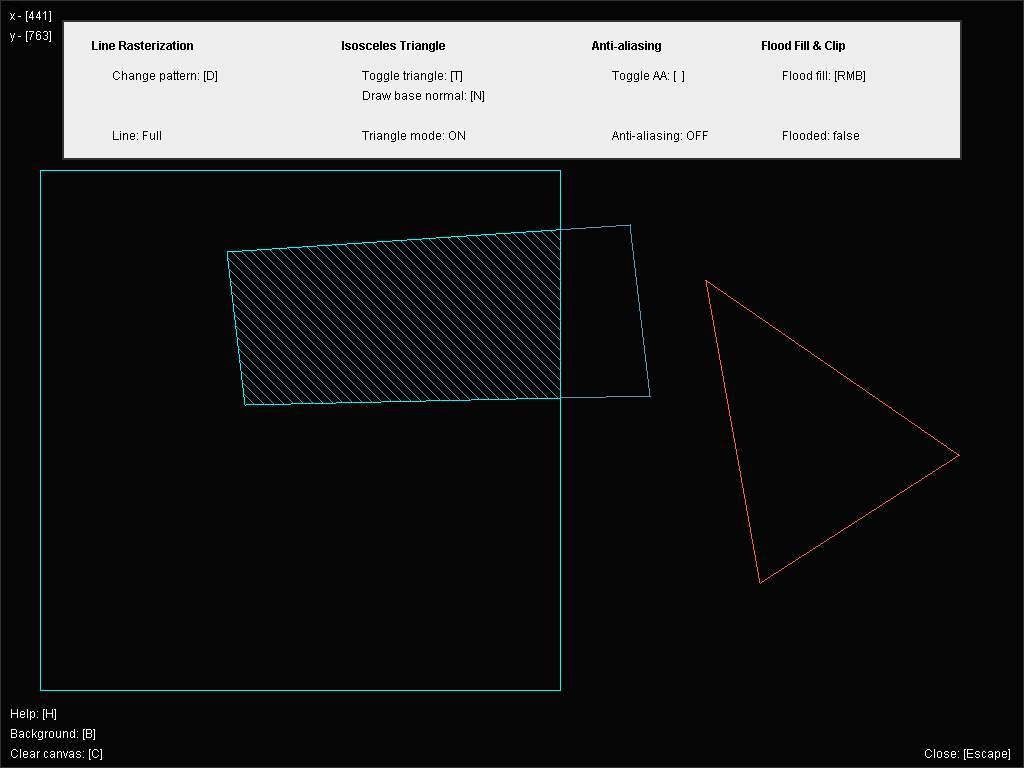
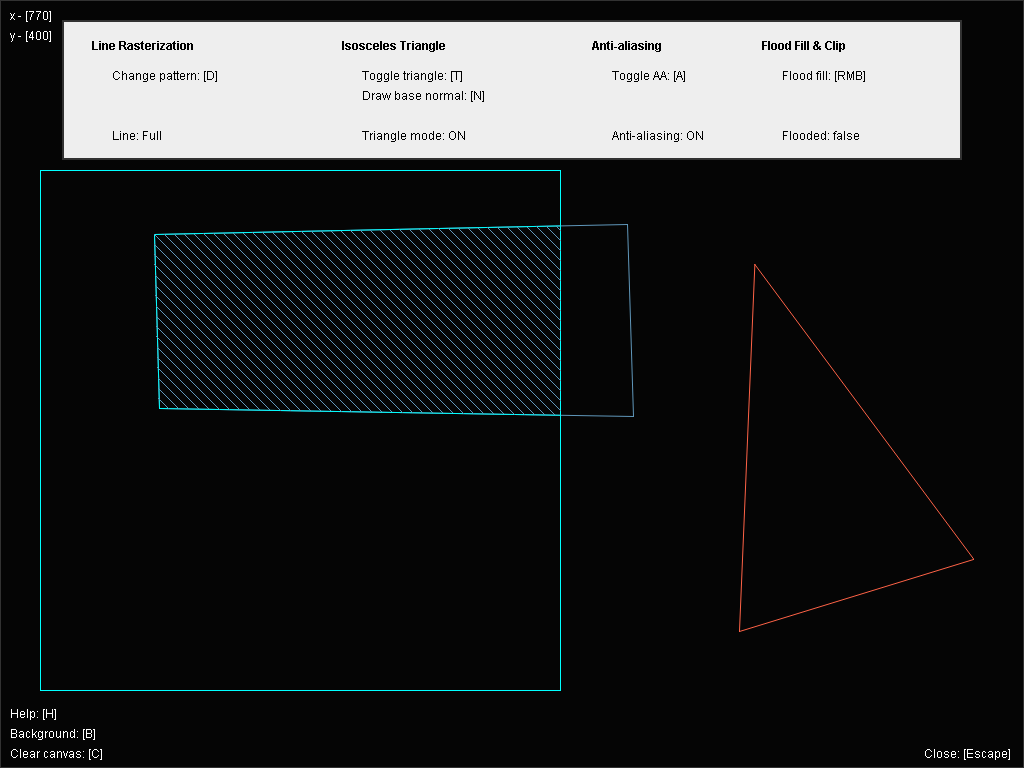
add anti-aliased line rasterization

diff --git a/src/rasterization/LineRasterizer.java b/src/rasterization/LineRasterizer.java
@@ -9,16 +9,35 @@ public class LineRasterizer extends Rasterizer
         this.image = image;
     }
 
-    private void pixel(int x, int y, int color)
+    private void pixel(int x, int y, int color, double alpha)
     {
         if (x >= 0 && x < image.getWidth() && y >= 0 && y < image.getHeight())
         {
-            image.setRGB(x, y, color);
+            int backgroundColor = image.getRGB(x, y);
+
+            image.setRGB(x, y, blendColor(backgroundColor, color, alpha));
         }
     }
 
+    private int blendColor(int background, int foreground, double alpha)
+    {
+        int r0 = (background >> 16) & 0xFF;
+        int g0 = (background >> 8) & 0xFF;
+        int b0 = background & 0xFF;
+        
+        int r1 = (foreground >> 16) & 0xFF;
+        int g1 = (foreground >> 8) & 0xFF;
+        int b1 = foreground & 0xFF;
+        
+        int r = (int) (r0 * (1 - alpha) + r1 * alpha);
+        int g = (int) (g0 * (1 - alpha) + g1 * alpha);
+        int b = (int) (b0 * (1 - alpha) + b1 * alpha);
+        
+        return (r << 16) | (g << 8) | b;
+    }
+
     @Override
-    public void rasterize(double x0, double y0, double x1, double y1)
+    public void rasterize(double x0, double y0, double x1, double y1, boolean antiAliased)
     {
         double run = x1 - x0;
         double rise = y1 - y0;
@@ -29,7 +48,7 @@ public class LineRasterizer extends Rasterizer
         if (x0 == x1 && y0 == y1)
         {
             // ... rasterize the pixel right away
-            pixel((int) x0, (int) y0, color);
+            pixel((int) x0, (int) y0, color, 1);
 
             return;
         }
@@ -51,29 +70,71 @@ public class LineRasterizer extends Rasterizer
         switch (pattern)
         {
             case FULL:
-                for (double x = steep ? y0 : x0; steep ? x <= y1 : x <= x1; x++)
+                for (double x = steep ? y0 : x0; steep ? (x <= y1) : (x <= x1); x++)
                 {
                     double y = k * x + q;
 
-                    pixel(steep ? (int) y : (int) x, steep ? (int) x : (int) y, color);
+                    if (antiAliased)
+                    {
+                        double fraction = y - (int) y;
+            
+                        pixel(steep ? (int) y : (int) x, steep ? (int) x : (int) y, color, 1 - fraction);
+    
+                        if (fraction > 0)
+                        {
+                            pixel(steep ? ((int) y + 1) : (int) x, steep ? (int) x : ((int) y + 1), color, fraction);
+                        }
+                    }
+                    else
+                    {
+                        pixel(steep ? (int) y : (int) x, steep ? (int) x : (int) y, color, 1);
+                    }
                 }
             break;
 
             case DOTTED:
-                for (double x = steep ? y0 : x0; steep ? x <= y1 : x <= x1; x += 4)
+                for (double x = steep ? y0 : x0; steep ? (x <= y1) : (x <= x1); x += 4)
                 {
                     double y = k * x + q;
 
-                    pixel(steep ? (int) y : (int) x, steep ? (int) x : (int) y, color);
+                    if (antiAliased)
+                    {
+                        double fraction = y - (int) y;
+            
+                        pixel(steep ? (int) y : (int) x, steep ? (int) x : (int) y, color, 1 - fraction);
+    
+                        if (fraction > 0)
+                        {
+                            pixel(steep ? ((int) y + 1) : (int) x, steep ? (int) x : ((int) y + 1), color, fraction);
+                        }
+                    }
+                    else
+                    {
+                        pixel(steep ? (int) y : (int) x, steep ? (int) x : (int) y, color, 1);
+                    }
                 }
             break;
 
             case DASHED:
-                for (double x = steep ? y0 : x0; steep ? x <= y1 : x <= x1; x++)
+                for (double x = steep ? y0 : x0; steep ? (x <= y1) : (x <= x1); x++)
                 {
                     double y = k * x + q;
 
-                    pixel(steep ? (int) y : (int) x, steep ? (int) x : (int) y, color);
+                    if (antiAliased)
+                    {
+                        double fraction = y - (int) y;
+            
+                        pixel(steep ? (int) y : (int) x, steep ? (int) x : (int) y, color, 1 - fraction);
+    
+                        if (fraction > 0)
+                        {
+                            pixel(steep ? ((int) y + 1) : (int) x, steep ? (int) x : ((int) y + 1), color, fraction);
+                        }
+                    }
+                    else
+                    {
+                        pixel(steep ? (int) y : (int) x, steep ? (int) x : (int) y, color, 1);
+                    }
 
                     if (i < 8)
                     {
@@ -88,12 +149,26 @@ public class LineRasterizer extends Rasterizer
             break;
 
             case DASH_DOTTED:
-                for (double x = steep ? y0 : x0; steep ? x <= y1 : x <= x1; x++)
+                for (double x = steep ? y0 : x0; steep ? (x <= y1) : (x <= x1); x++)
                 {
                     double y = k * x + q;
 
-                    pixel(steep ? (int) y : (int) x, steep ? (int) x : (int) y, color);
-
+                    if (antiAliased)
+                    {
+                        double fraction = y - (int) y;
+            
+                        pixel(steep ? (int) y : (int) x, steep ? (int) x : (int) y, color, 1 - fraction);
+    
+                        if (fraction > 0)
+                        {
+                            pixel(steep ? ((int) y + 1) : (int) x, steep ? (int) x : ((int) y + 1), color, fraction);
+                        }
+                    }
+                    else
+                    {
+                        pixel(steep ? (int) y : (int) x, steep ? (int) x : (int) y, color, 1);
+                    }
+                    
                     if (i < 8)
                     {
                         i++;
@@ -103,8 +178,22 @@ public class LineRasterizer extends Rasterizer
                         x += 4;
                         y = k * x + q;
 
-                        pixel(steep ? (int) y : (int) x, steep ? (int) x : (int) y, color);
-                        
+                        if (antiAliased)
+                        {
+                            double fraction = y - (int) y;
+                
+                            pixel(steep ? (int) y : (int) x, steep ? (int) x : (int) y, color, 1 - fraction);
+        
+                            if (fraction > 0)
+                            {
+                                pixel(steep ? ((int) y + 1) : (int) x, steep ? (int) x : ((int) y + 1), color, fraction);
+                            }
+                        }
+                        else
+                        {
+                            pixel(steep ? (int) y : (int) x, steep ? (int) x : (int) y, color, 1);
+                        }
+                                                
                         x += 4;
                         i = 0;
                     }

diff --git a/src/App.java b/src/App.java
@@ -45,6 +45,7 @@ public class App
     private boolean darkMode = true;
     private boolean triangleMode;
     private boolean baseNormal;
+    private boolean antiAliasing;
     
     private void start()
     {
@@ -124,7 +125,7 @@ public class App
             text.drawString("Toggle triangle: [T]", rx + 300, 80);
             text.drawString("Draw base normal: [N]", rx + 300, 100);
             
-            text.drawString("Toggle AA: [  ]", rx + 550, 80);
+            text.drawString("Toggle AA: [A]", rx + 550, 80);
 
             text.drawString("Triangle mode: " + (triangleMode ? (baseNormal ? "Base normal" : "ON") : "OFF"), rx + 300, 140);
             text.drawString("Flood fill: [RMB]",  rx + 720, 80);
@@ -137,7 +138,7 @@ public class App
                 case DASH_DOTTED: text.drawString("Line: Dash-Dotted", rx + 50, 140); break;
             }
 
-            text.drawString("Anti-aliasing: OFF", rx + 550, 140);
+            text.drawString("Anti-aliasing: " + (antiAliasing ? "ON" : "OFF"), rx + 550, 140);
             text.drawString("Flooded: " + flooded, rx + 720, 140);
         }
 
@@ -155,8 +156,8 @@ public class App
         {
             int size = polygon.getPoints().size();
 
-            previewRasterizer.rasterize(polygon.getPoint(size - 1).x, polygon.getPoint(size - 1).y, x, y);
-            previewRasterizer.rasterize(polygon.getPoint(0).x, polygon.getPoint(0).y, x, y);
+            previewRasterizer.rasterize(polygon.getPoint(size - 1).x, polygon.getPoint(size - 1).y, x, y, antiAliasing ? true : false);
+            previewRasterizer.rasterize(polygon.getPoint(0).x, polygon.getPoint(0).y, x, y, antiAliasing ? true : false);
         }
 
         if (input == Input.LEFT  && triangleMode)
@@ -165,18 +166,18 @@ public class App
 
             if (triangle.getPoints().size() == 1)
             {
-                previewRasterizer.rasterize(triangle.getPoint(0).x, triangle.getPoint(0).y, x, y);
-                previewRasterizer.rasterize(triangle.getPoint(0).x, triangle.getPoint(0).y, x, y);
+                previewRasterizer.rasterize(triangle.getPoint(0).x, triangle.getPoint(0).y, x, y, antiAliasing ? true : false);
+                previewRasterizer.rasterize(triangle.getPoint(0).x, triangle.getPoint(0).y, x, y, antiAliasing ? true : false);
             }
             else
             {
-                previewRasterizer.rasterize(triangle.getPoint(size - 1).x, triangle.getPoint(size - 1).y, tx, ty);
-                previewRasterizer.rasterize(triangle.getPoint(0).x, triangle.getPoint(0).y, tx, ty);
+                previewRasterizer.rasterize(triangle.getPoint(size - 1).x, triangle.getPoint(size - 1).y, tx, ty, antiAliasing ? true : false);
+                previewRasterizer.rasterize(triangle.getPoint(0).x, triangle.getPoint(0).y, tx, ty, antiAliasing ? true : false);
 
                 if (baseNormal)
                 {
                     previewRasterizer.rasterize((triangle.getPoint(0).x + triangle.getPoint(1).x) / 2,
-                            (triangle.getPoint(0).y + triangle.getPoint(1).y) / 2, tx, ty);
+                            (triangle.getPoint(0).y + triangle.getPoint(1).y) / 2, tx, ty, antiAliasing ? true : false);
                 }
             }
         }
@@ -190,16 +191,27 @@ public class App
 
             switch (linePattern)
             {
-                case 0: lineRasterizer.pattern = Pattern.FULL;        break;
-                case 1: lineRasterizer.pattern = Pattern.DOTTED;      break;
-                case 2: lineRasterizer.pattern = Pattern.DASHED;      break;
-                case 3: lineRasterizer.pattern = Pattern.DASH_DOTTED; break;
+                case 0:
+                    lineRasterizer.pattern = Pattern.FULL;
+                break;
+
+                case 1:
+                    lineRasterizer.pattern = Pattern.DOTTED;
+                break;
+
+                case 2:
+                    lineRasterizer.pattern = Pattern.DASHED;
+                break;
+
+                case 3:
+                    lineRasterizer.pattern = Pattern.DASH_DOTTED;
+                break;
             }
 
             for (int i = 0; i < points.size(); i++)
             {
                 lineRasterizer.rasterize(points.get(i).x, points.get(i).y,
-                    points.get((i + 1) % points.size()).x, points.get((i + 1) % points.size()).y);
+                    points.get((i + 1) % points.size()).x, points.get((i + 1) % points.size()).y, antiAliasing ? true : false);
             }
         }
     }
@@ -224,6 +236,7 @@ public class App
 
                         case KeyEvent.VK_N: baseNormal = !baseNormal; break;
 
+                        case KeyEvent.VK_A: antiAliasing = !antiAliasing; break;
 
                         case KeyEvent.VK_C: 
                             polygon.clearPoints();

diff --git a/src/rasterization/Rasterizer.java b/src/rasterization/Rasterizer.java
@@ -17,5 +17,5 @@ public abstract class Rasterizer
         this.color = color;
     }
 
-    public abstract void rasterize(double x0, double x1, double y0, double y1);
+    public abstract void rasterize(double x0, double y0, double x1, double y1, boolean antiAliased);
 }

diff --git a/README.md b/README.md
@@ -10,7 +10,7 @@ Line rasterizer written in Java 8 with multiple additional features.
 - [x] isosceles triangle rasterization
 - [x] flood fill
 - [x] scanline fill
-- [ ] anti-aliasing
+- [x] anti-aliasing
 
 ## Dependencies
 - [Java 8 and above](https://www.java.com/en/)
